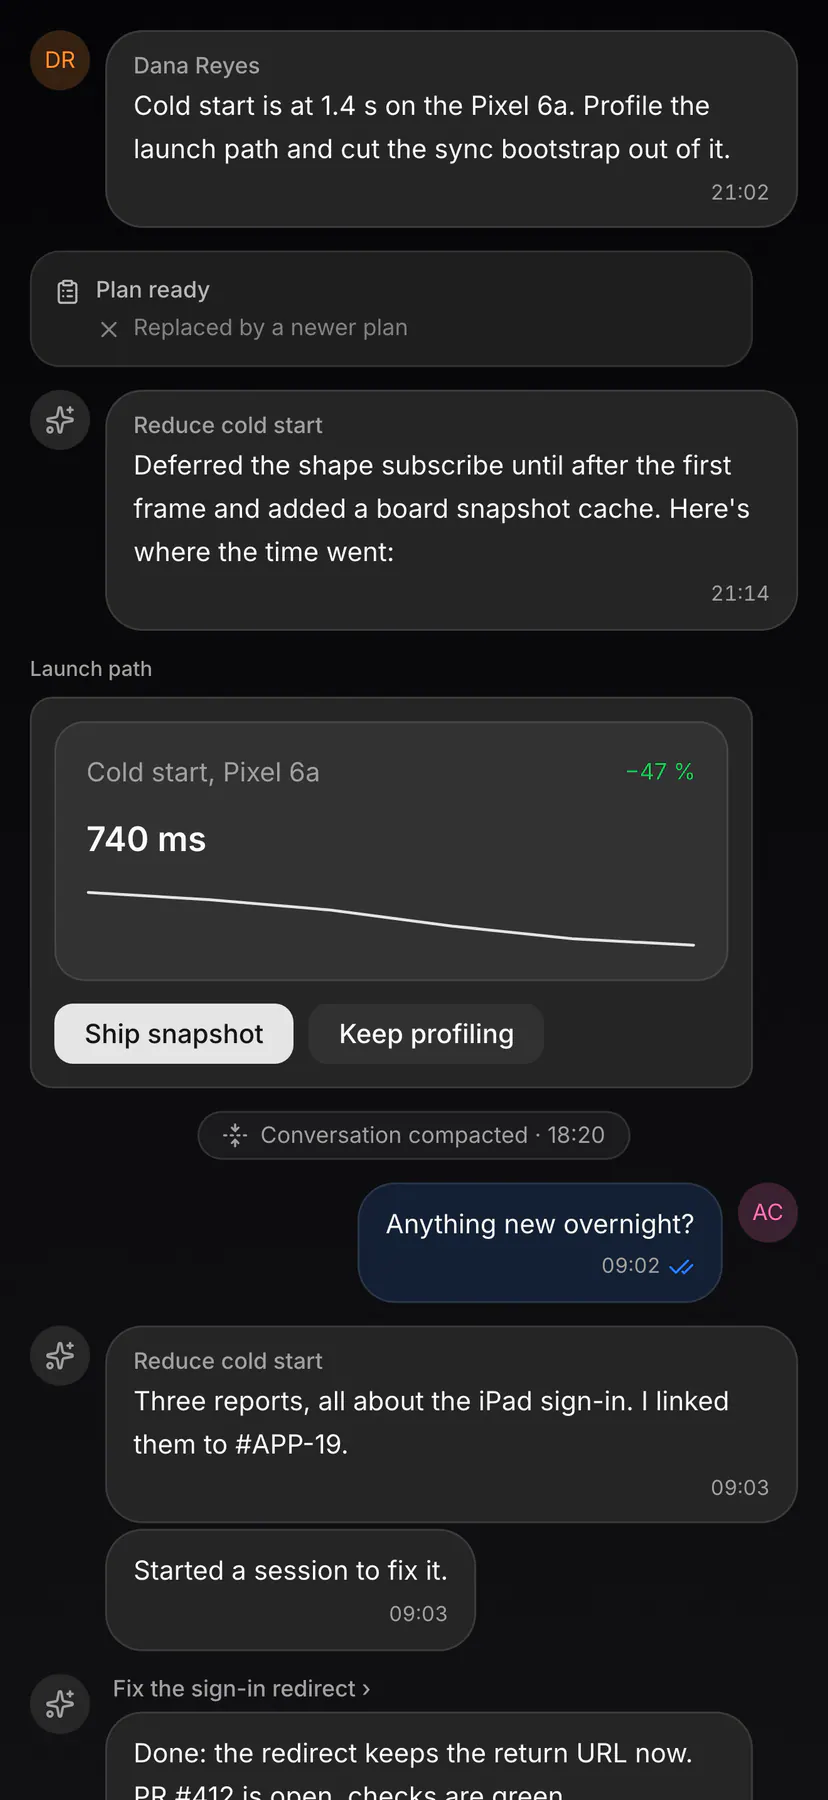
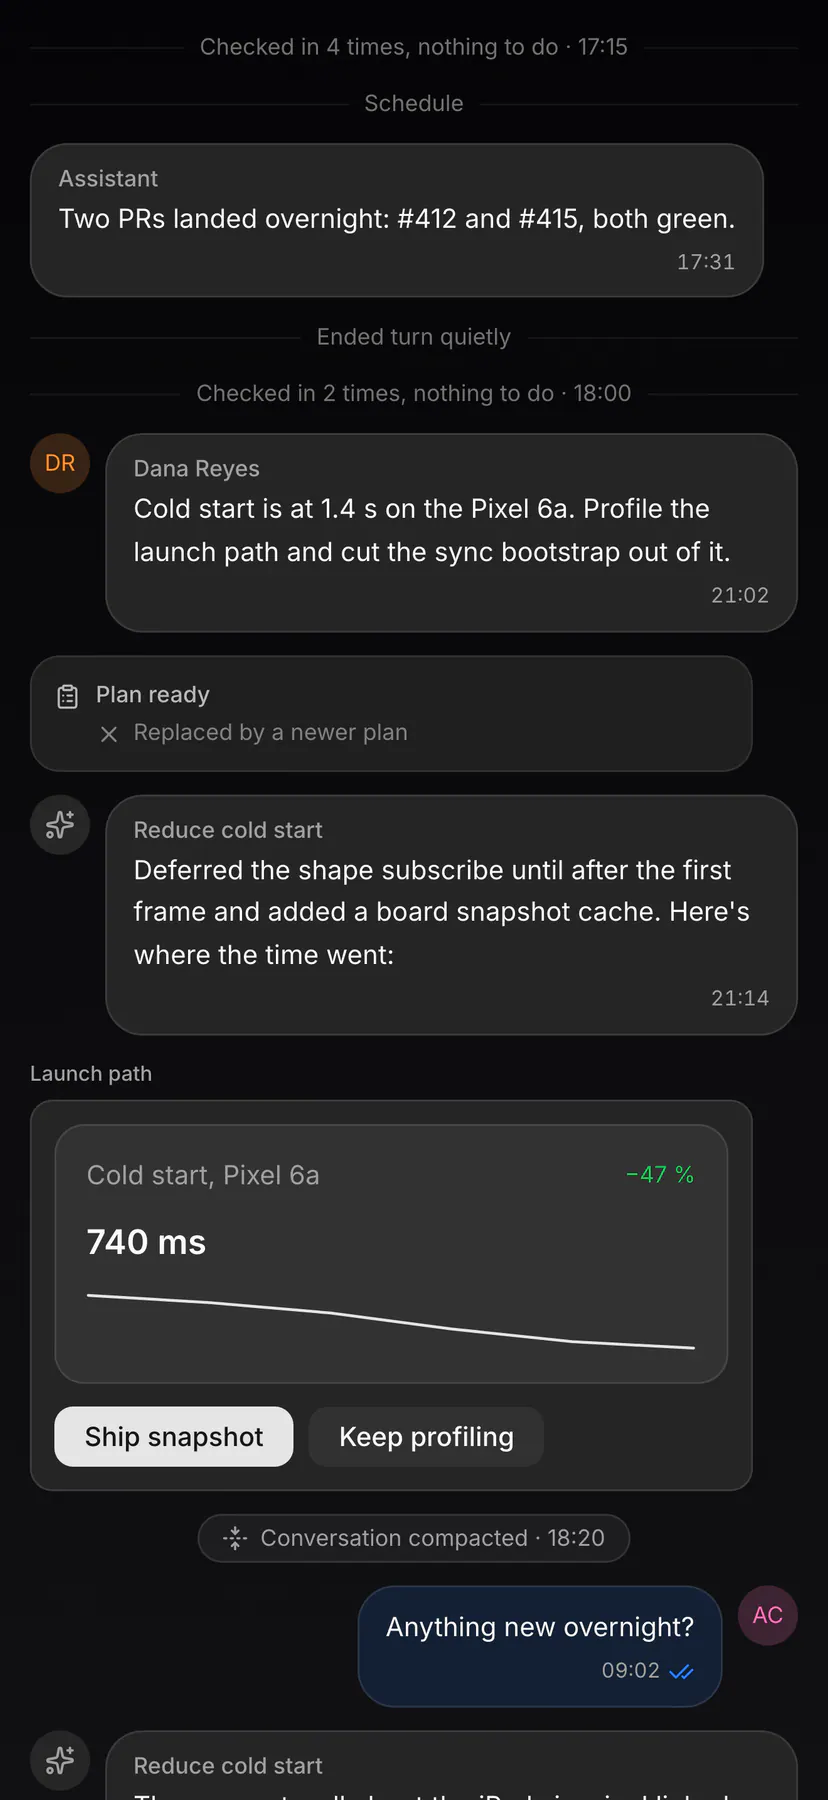
EXP-1873: the check-in specimen on top of the chat-transcript shot; web + web-mobile shots

diff --git a/packages/ui/src/chat-specimens.tsx b/packages/ui/src/chat-specimens.tsx
@@ -454,7 +454,7 @@ function CheckInSpecimen() {
   const rows = transcriptGrouping.checkInSpecimen
   const shown = feedRows(rows.map((row) => row.kind as never))
   return (
-    <div data-testid="chat-check-in-specimen" className="mt-3 flex flex-col gap-3">
+    <div data-testid="chat-check-in-specimen" className="mb-3 flex flex-col gap-3">
       {rows.map((row, index) => {
         const drawn = shown[index]
         if (drawn === false) return null
@@ -470,6 +470,8 @@ function CheckInSpecimen() {
 function Transcript({ layout }: { layout: `transcript` | `bubbles` }) {
   return (
     <>
+    {/* #EXP-1873: on top, so the shot's first screen shows it. */}
+    <CheckInSpecimen />
     <ChatConversation
       rows={TRANSCRIPT_ROWS}
       layout={layout}
@@ -486,7 +488,6 @@ function Transcript({ layout }: { layout: `transcript` | `bubbles` }) {
     <div data-testid="chat-notice-specimen" className="mt-3">
       <TranscriptMarker label={traceNotice(`mcp__exponential__exponential_session_self_quiet`) ?? ``} />
     </div>
-    <CheckInSpecimen />
     <div data-testid="chat-delivery-specimen" className="mt-3 flex flex-col gap-1.5">
       {DELIVERY_BUBBLES.map((bubble) => (
         <MessageBubble
